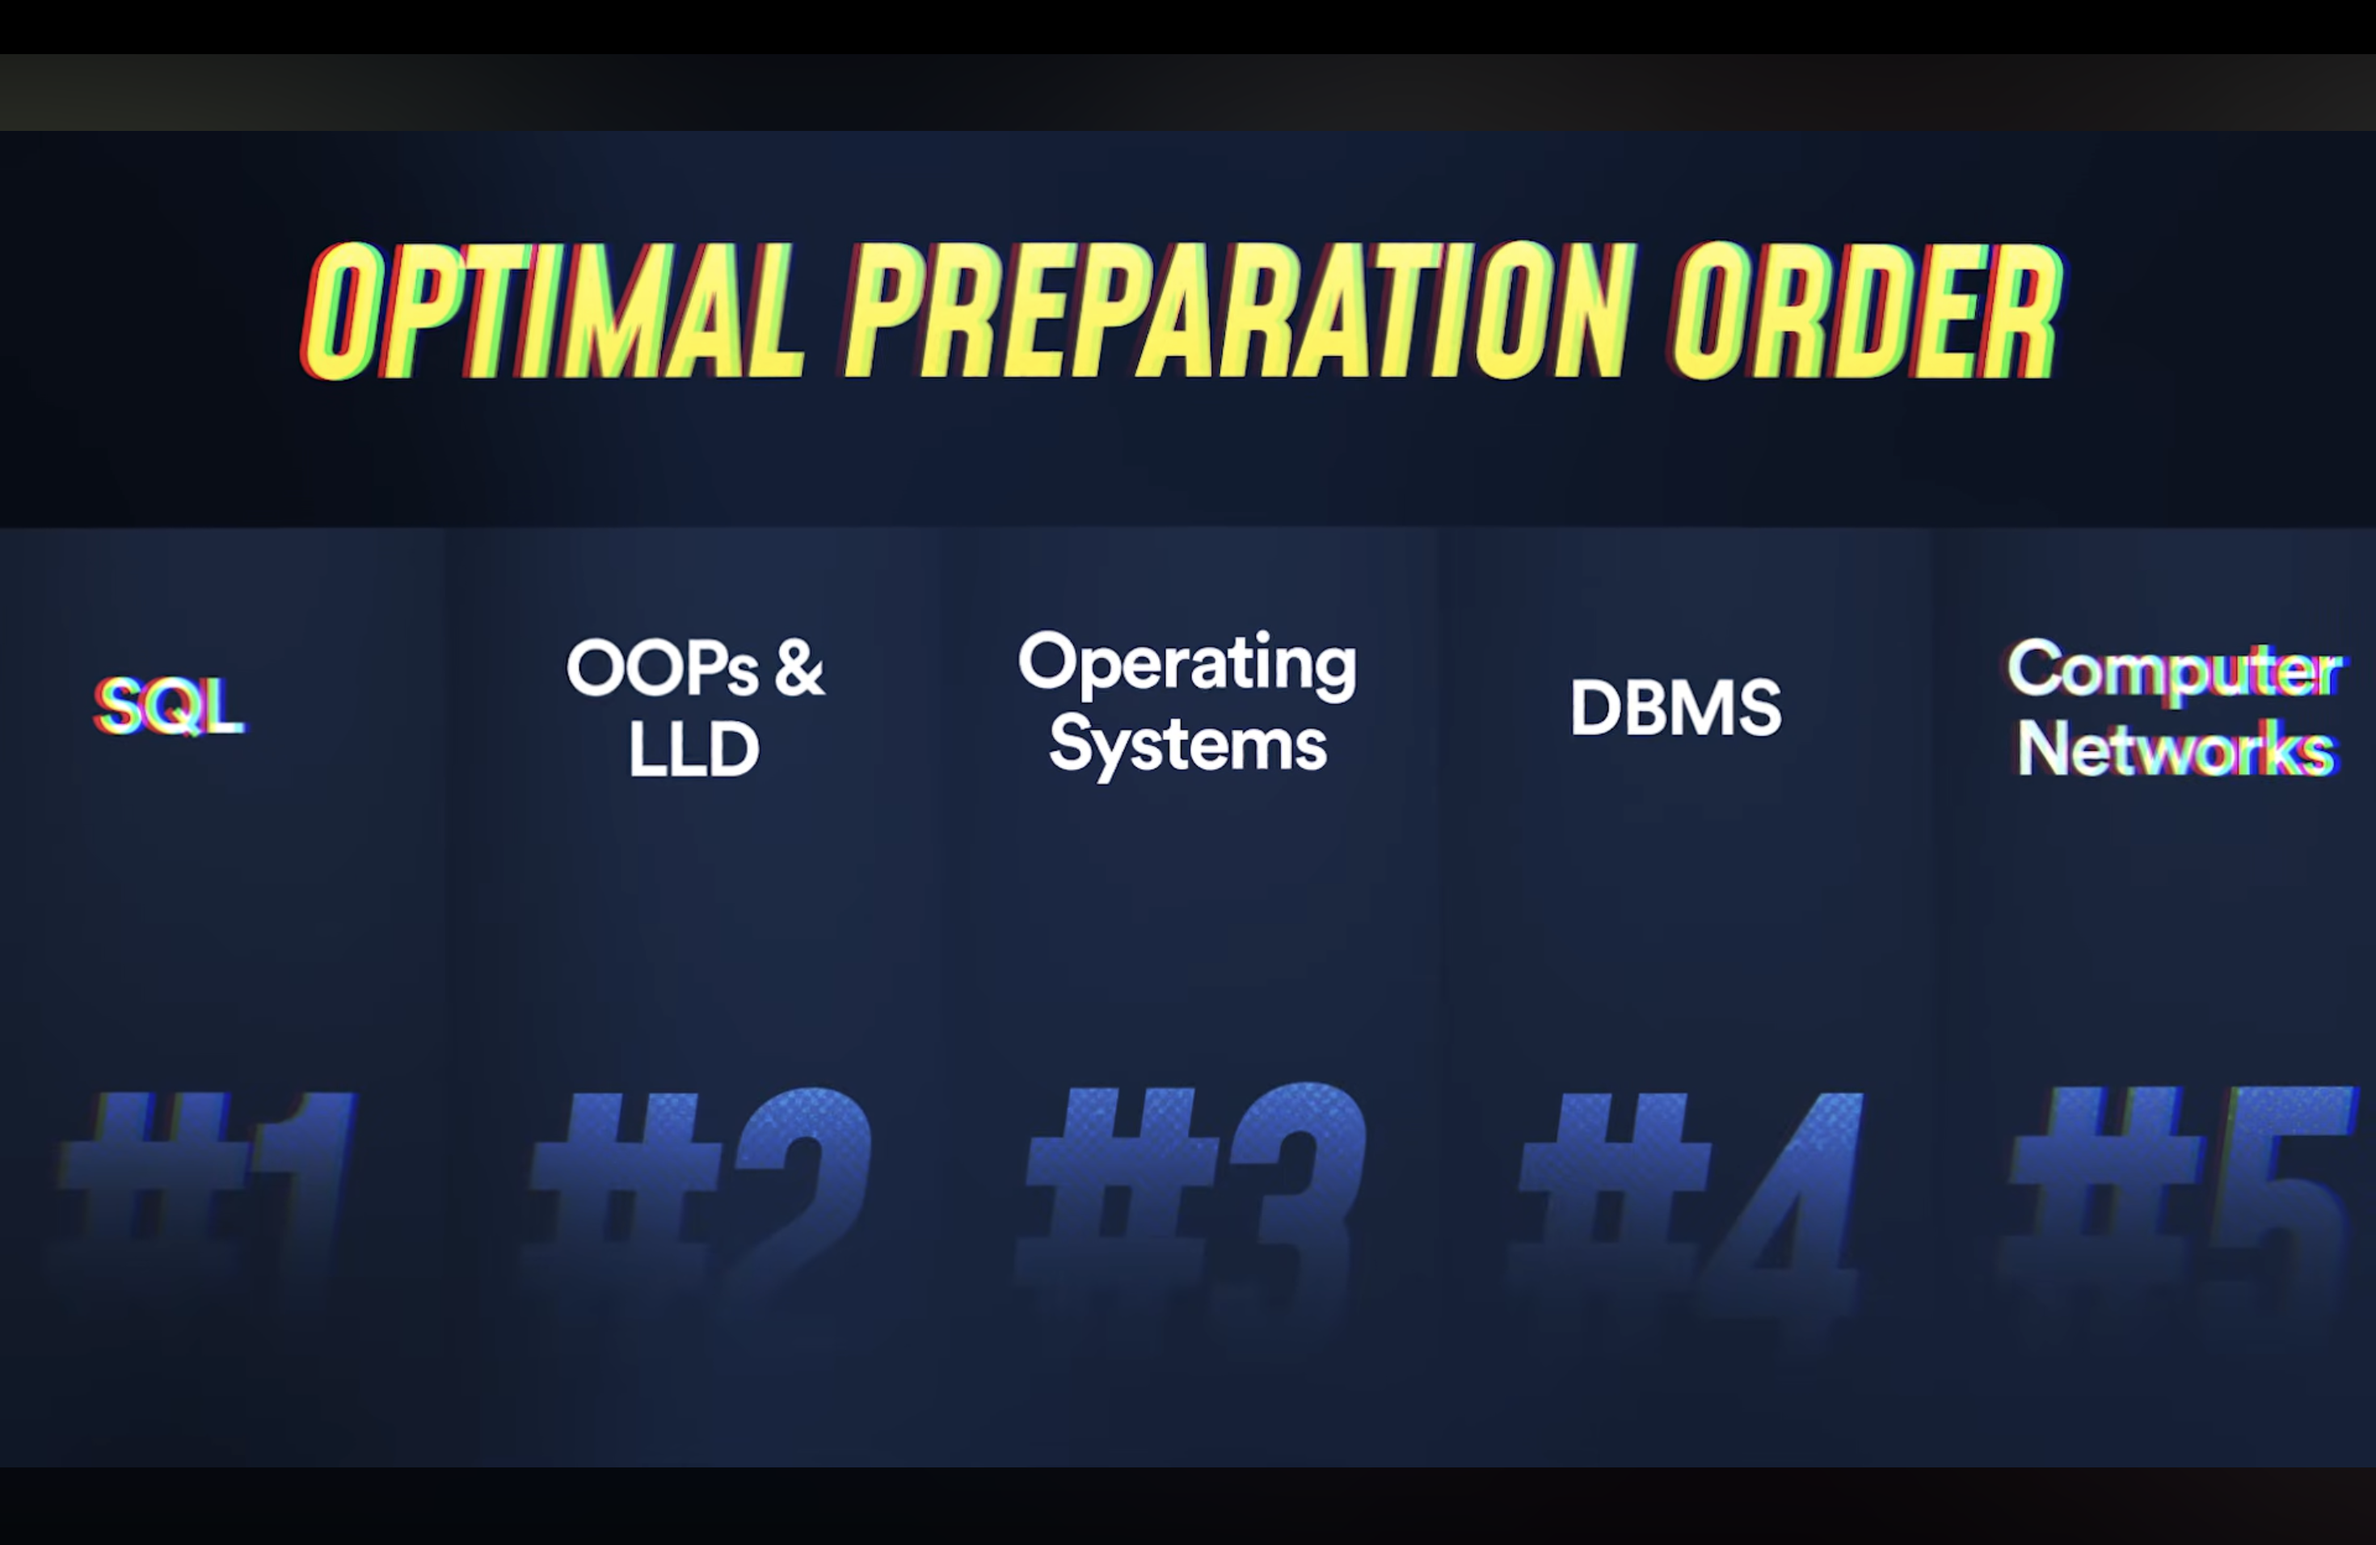
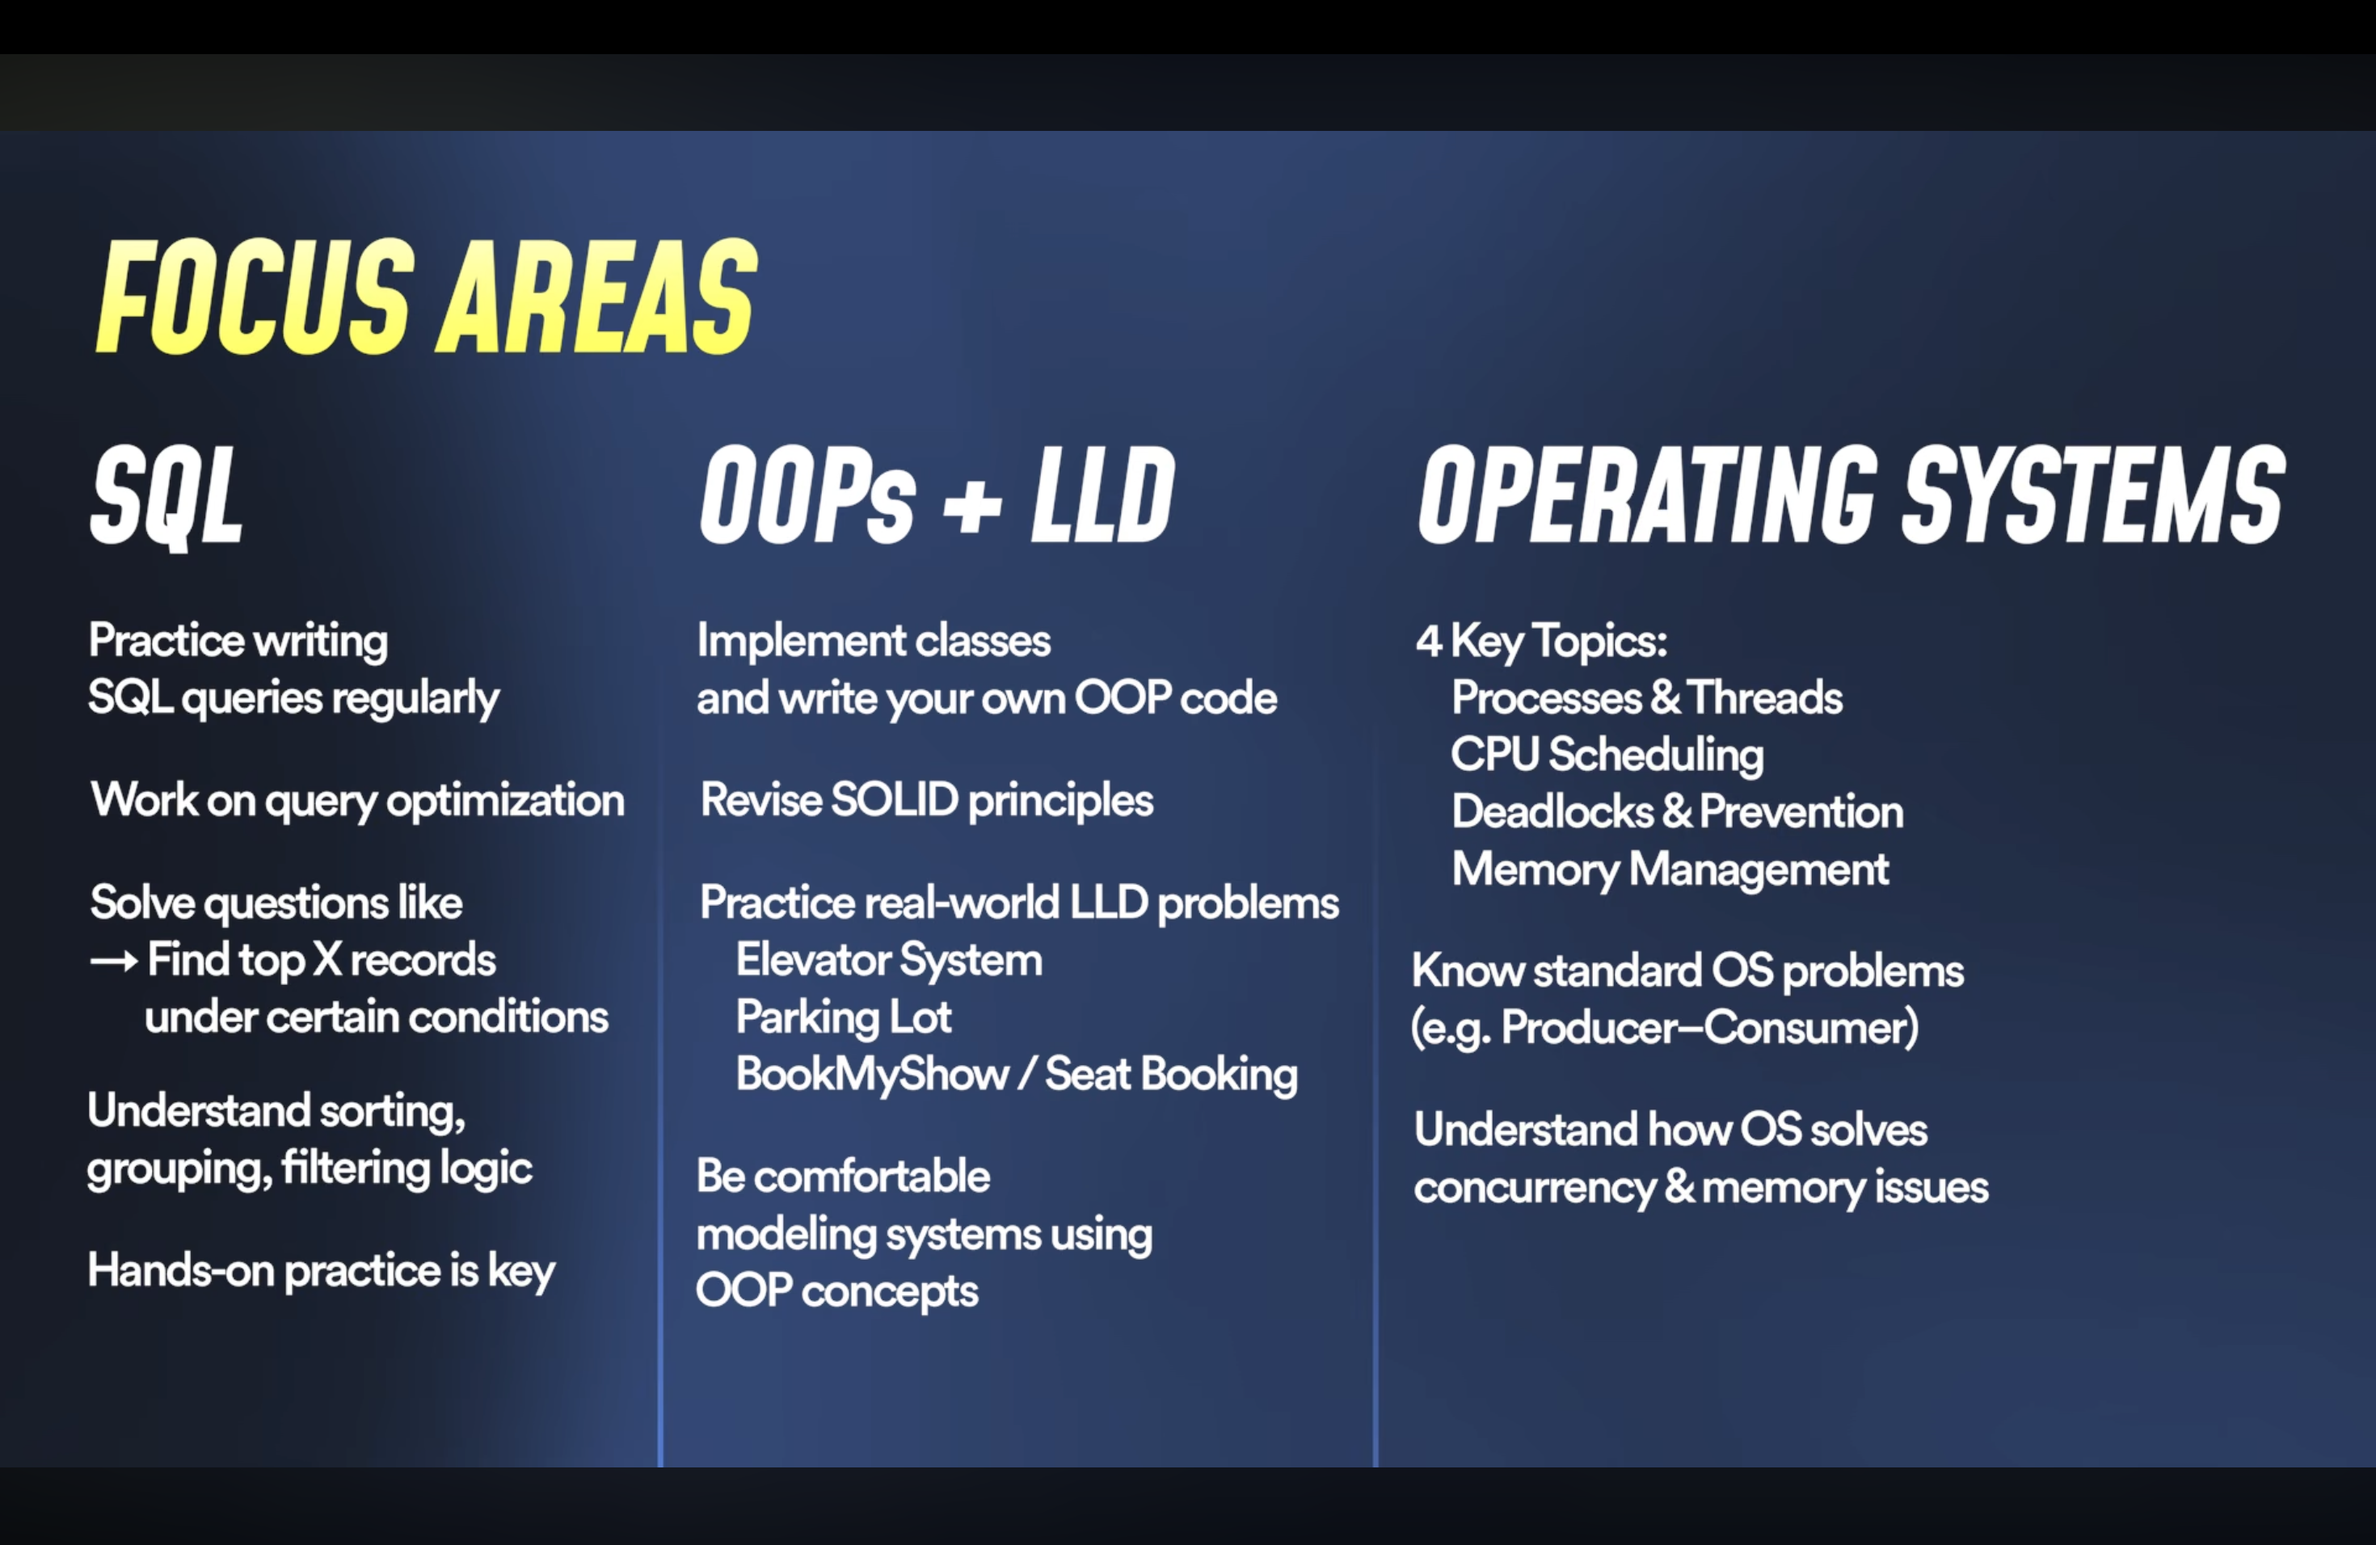
codenew

diff --git a/subjects/systemdesign/signature.cpp b/subjects/systemdesign/signature.cpp
@@ -1,0 +1,6 @@
+#include <bits/stdc++.h>
+using namespace std;
+
+int main(){
+    
+}
